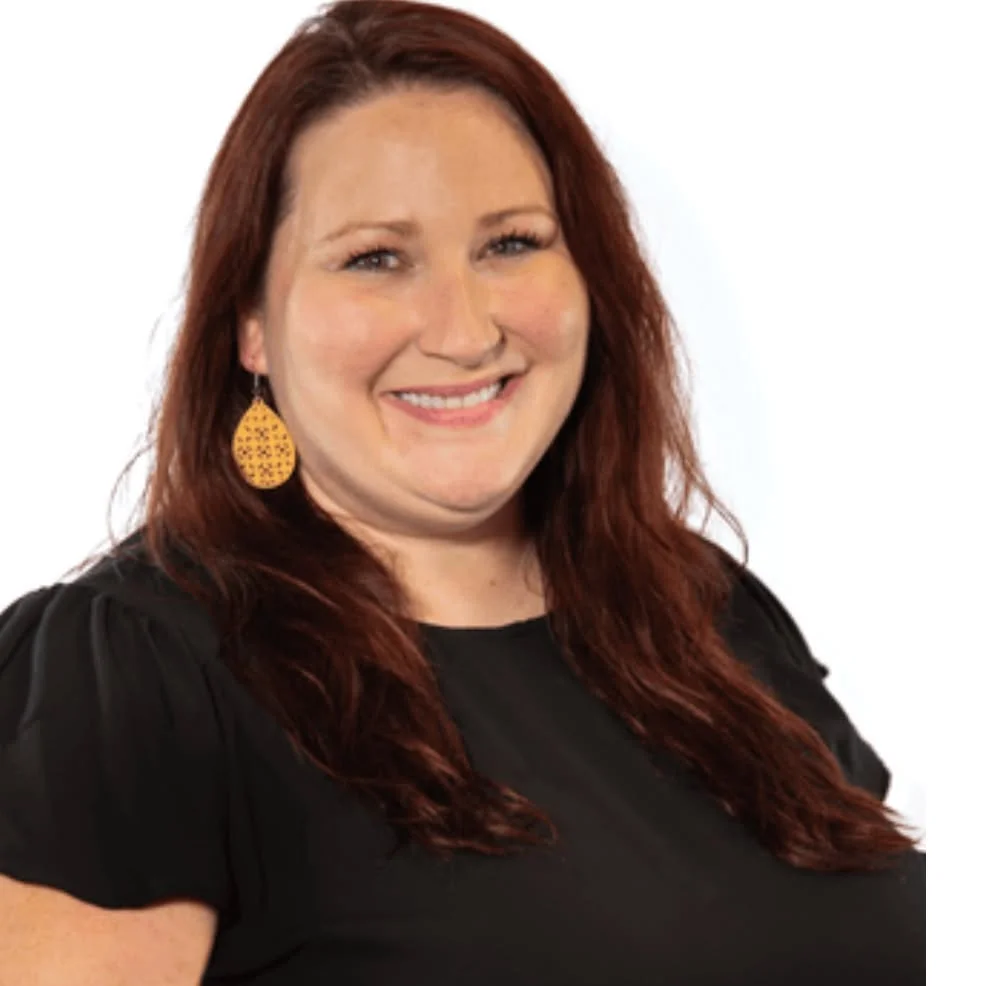
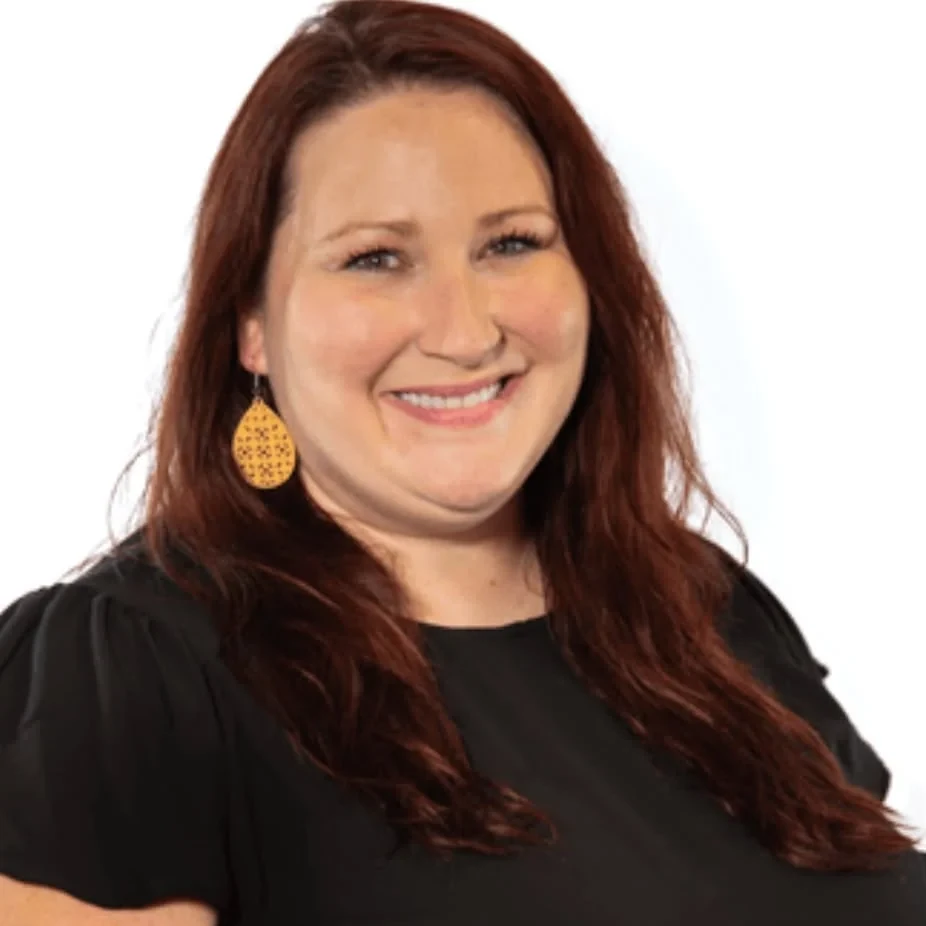
Crop white strip from right edge of headshot
Removed 60px white background on right side, re-squared to 926x926.

Changed region(s): [[0.0, 0.0, 1.0, 1.0], [0.0, 0.8769, 0.2419, 1.0], [0.514, 0.8467, 0.5745, 0.9071]]

diff --git a/about.html b/about.html
@@ -111,7 +111,7 @@
           <div class="story-photo animate-on-scroll">
             <img src="images/katie-headshot.webp"
               alt="Katie Burns, music teacher in Anniston, Alabama"
-              width="986" height="986" loading="lazy">
+              width="926" height="926" loading="lazy">
           </div>
           <div class="story-text animate-on-scroll" style="--stagger-delay: 0.15s">
             <span class="section-label">Singing · Storytelling · Movement</span>

diff --git a/index.html b/index.html
@@ -305,7 +305,7 @@
       <div class="container">
         <div class="cta-split animate-on-scroll">
           <div class="cta-split-photo">
-            <img src="images/katie-headshot.webp" alt="Katie Burns, founder of KRB Studio" width="986" height="986" loading="lazy">
+            <img src="images/katie-headshot.webp" alt="Katie Burns, founder of KRB Studio" width="926" height="926" loading="lazy">
           </div>
           <div class="cta-split-content">
             <span class="eyebrow">Your Guide</span>